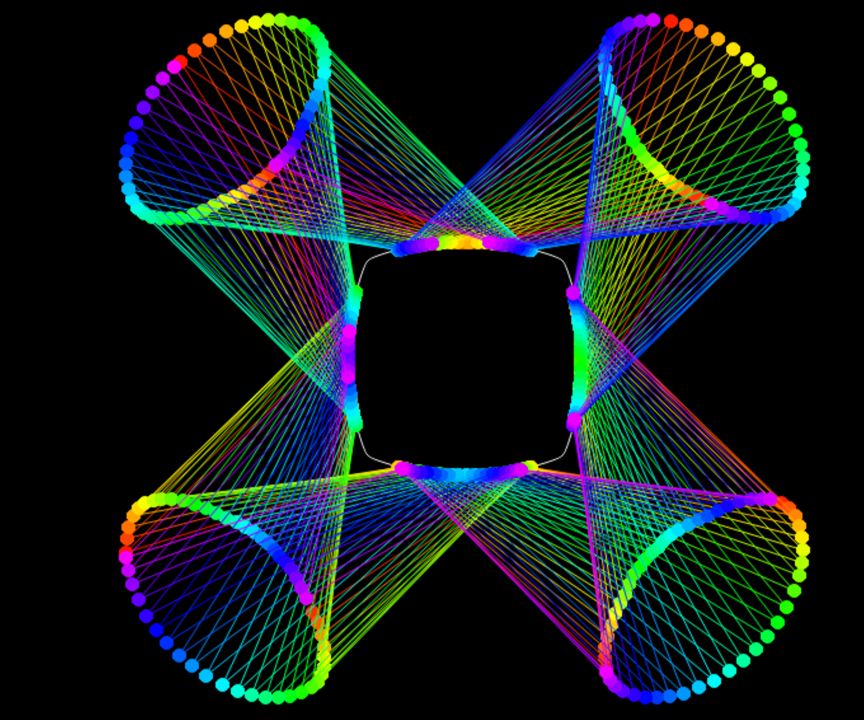
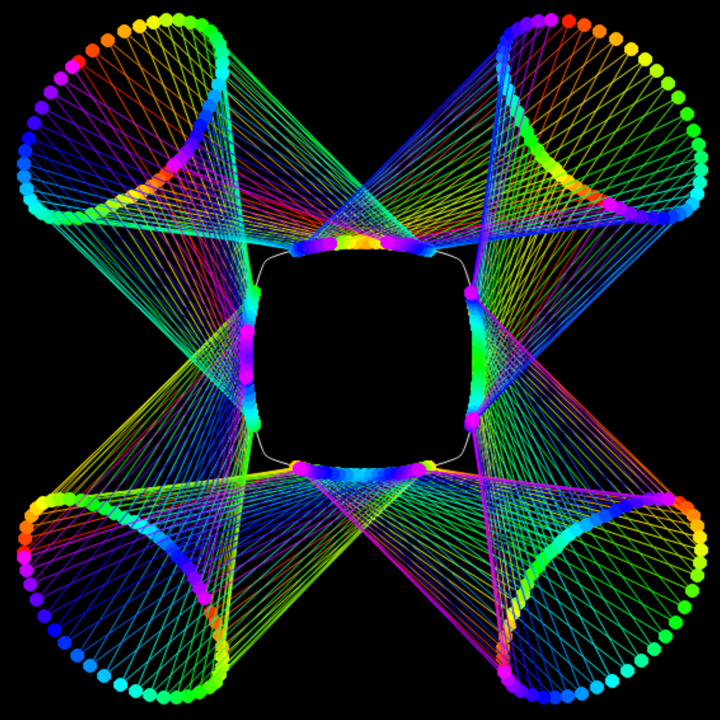
image fixes

diff --git a/index.html b/index.html
@@ -4,6 +4,7 @@
         <meta charset="utf-8" />
         <link rel = "stylesheet" href="assets/style.css" />
         <title>Kevin Lewis Personal Website</title>
+        <link rel="icon" type="application/png" href="favicon.png" />
     </head>
 
     <body>
